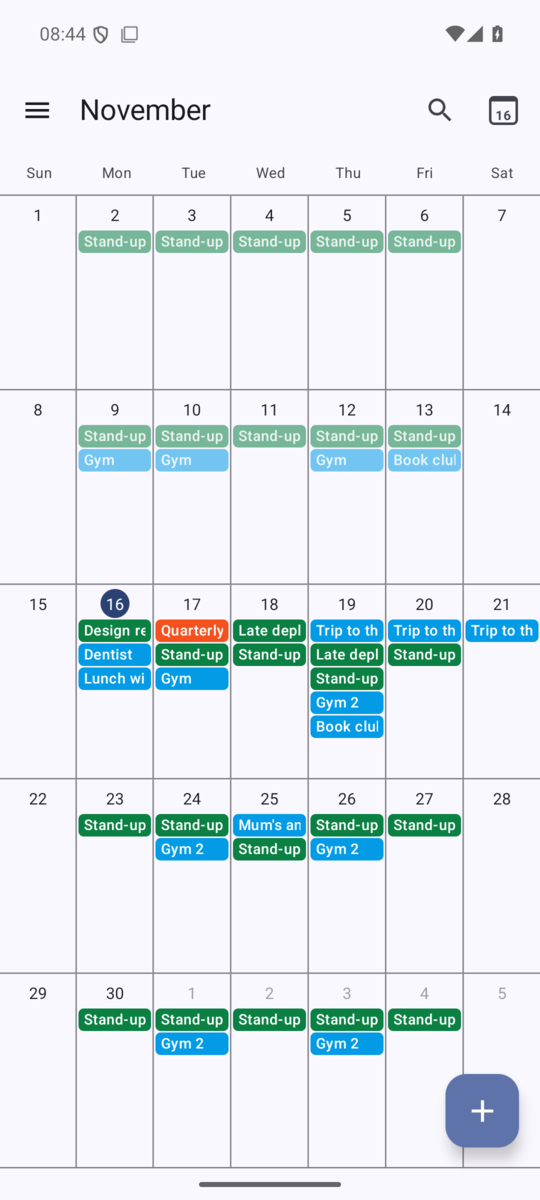
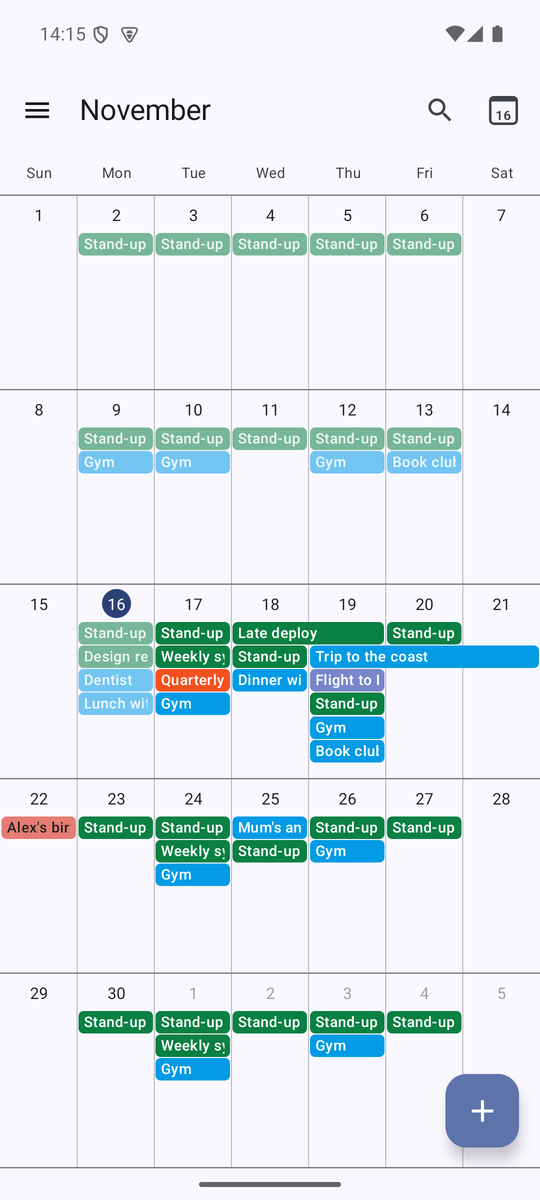
Docs: new features, colors, what's not included; fresh Schedule and Month screenshots

diff --git a/docs/features.md b/docs/features.md
@@ -13,19 +13,26 @@ How Almanac covers the Google Calendar app, screen by screen.
 | Search | Searches titles, places, descriptions and guests across ±2–3 years |
 | + button | Opens a new event at the next whole hour |
 | Pull to refresh | In Schedule; asks DAVx5 to sync now |
-| Month illustrations in Schedule | Seasonal colored banners |
-| Tasks, Goals, Working location, Google Meet | Not included (events only; no Google services) |
+| Month illustrations in Schedule | An original landscape per month, drawn in layers that drift as you scroll |
+| Pictures on dinners, birthdays, flights… | Picture cards for 44 kinds of event, chosen from words in the title |
+| Google Meet | A "Join with …" button for Meet, Zoom, Teams, Jitsi, Webex, Whereby, Nextcloud Talk links; creating Meet calls needs Google |
+| Tasks, Goals, Working location, Find a time | Not included (see below) |
 
 ## Views
 
 - **Schedule:** endless list of days with events, week ranges, month banners,
-  a red line at the current time, "Nothing planned" on an empty today.
+  a red line at the current time, "Nothing planned" on an empty today. Swipe
+  an event right to delete it (Undo for a few seconds); press and hold for
+  Open, Edit, Duplicate and Delete.
 - **Day / 3 days / Week:** 24-hour grid. All-day and 24-hour+ events sit on
   top, overlapping events share the width, and a red line marks now. Pinch to
   zoom, swipe for the next period, tap a free slot to add an event there, tap
-  a day header to open that day.
-- **Month:** full month grid, event chips with "+N" when a day is full, tap a
-  day to open it, swipe between months. Optional week numbers.
+  a day header to open that day. Press and hold an event and drag it to move
+  it (15-minute steps, across days, the grid scrolls at the edges); holding
+  without moving opens the event menu.
+- **Month:** full month grid; an event spanning several days is one bar,
+  "+N" when a day is full; tap a day to open it, swipe between months.
+  Optional week numbers.
 
 ## Event details
 
@@ -72,4 +79,20 @@ Settings), **Dismiss** and **Map**. Tapping it opens the event.
 |---|---|
 | General | Theme, start of week, week numbers, show declined events, dim past events, default event duration |
 | Notifications | On/off, default notification, default all-day notification, snooze length, Android's notification settings |
-| Calendars | Default calendar for new events; rename, recolor or delete phone-only calendars |
+| Calendars | Default calendar for new events; rename, recolor or delete phone-only calendars; recolor synced calendars (on this phone only) |
+
+## Colors
+
+Events can take any of Google's 11 colors. Phone-only calendars store them by
+name. DAVx5 offers the CSS3 named colors once its **Event colors** setting is
+on (account settings, CalDAV); Almanac stores the nearest one and draws it in
+Google's shade, so it syncs to the server as a standard `COLOR`. With the
+setting off, the editor says so instead of offering colors.
+
+## Not included
+
+- **Tasks:** DAVx5 syncs tasks to a separate tasks app (jtx Board, Tasks.org,
+  OpenTasks), and Davit serves events only for now.
+- **Goals and Working location:** Google-only features with no CalDAV
+  equivalent.
+- **Find a time:** needs other people's free/busy times from the server.

diff --git a/ARCHITECTURE.md b/ARCHITECTURE.md
@@ -16,11 +16,11 @@ calendar store, and Google's sync adapter does the syncing.
 
 | Package | Contents |
 |---|---|
-| `data` | `CalendarRepository` (all reads and writes), the model (`CalendarInfo`, `Instance`, `EventDetails`, `EventDraft`), `RRule` + `RecurrenceText`, `DayLayout`, `Ics` (import), `Birthdays`, `ContactsSearch`, `Prefs` |
-| `ui` | `AppViewModel` (navigation stack, settings, data access), `MainScreen` (top bar, drawer, FAB), the views (`ScheduleView`, `TimeGridView`, `MonthView`), `EventDetailScreen`, `EditEventScreen` + `Dialogs`, search/settings/import, `Fmt` (dates in the phone's language and 12/24-hour setting), theme |
+| `data` | `CalendarRepository` (all reads and writes), the model (`CalendarInfo`, `Instance`, `EventDetails`, `EventDraft`), `RRule` + `RecurrenceText`, `DayLayout` and `MonthLayout` (grid placement), `EventTheme` (picture themes from titles), `VideoCall` (call links), `Ics` (import), `Birthdays`, `ContactsSearch`, `Prefs` |
+| `ui` | `AppViewModel` (navigation stack, settings, data access), `MainScreen` (top bar, drawer, FAB), the views (`ScheduleView`, `TimeGridView`, `MonthView`), `EventDetailScreen`, `EditEventScreen` + `Dialogs`, `EventActions` (swipe, hold menu, delete/move questions), `Art` (month landscapes and event pictures, drawn in code), search/settings/import, `Fmt` (dates in the phone's language and 12/24-hour setting), theme |
 | `notify` | `Notifier` (reads due alerts, posts, snoozes), `ReminderReceiver`, `ReminderActionReceiver` |
 | `widget` | Glance schedule and month widgets |
-| `src/debug` | `DemoSeeder`: made-up test events, debug builds only |
+| `src/debug` | `DemoSeeder`: made-up test events; `ArtGallery`: all the artwork on one screen. Debug builds only |
 
 ## Data flow
 
@@ -36,6 +36,14 @@ calendar store, and Google's sync adapter does the syncing.
   requires for that account type.
 - **Guests** are diffed against the stored list, so unchanged guests keep their
   replies.
+- **Deletes wait for Undo.** A delete hides the occurrence at once and runs
+  five seconds later in the application's scope, so leaving the screen doesn't
+  cancel it; if the process dies first, nothing is deleted.
+- **Colors.** `Instance.color` and `EventDetails.color` are resolved in the
+  repository: an event color key that stands for one of Google's colors
+  (`Palette.choices`, nearest by RGB distance) is drawn in Google's shade; an
+  event without its own color takes its calendar's color, including one picked
+  in Almanac (`Settings.calendarColors`, never written to the store).
 
 ## Repeating events
 

diff --git a/AGENTS.md b/AGENTS.md
@@ -26,12 +26,19 @@ to their server.** Data safety matters more than features:
 ## Build, run, test
 
 ```sh
-./gradlew assembleDebug                 # app id app.crome1394.almanac.debug ("Almanac" debug)
-./gradlew testDebugUnitTest             # unit tests (recurrence, layout, .ics, birthdays, EXDATE)
+./gradlew assembleDebug                 # app id app.crome1394.almanac.debug, named "Almanac (debug)"
+./gradlew testDebugUnitTest             # unit tests (recurrence, layouts, .ics, birthdays, EXDATE, colors, themes, call links)
 adb -s emulator-5554 install -r app/build/outputs/apk/debug/app-debug.apk
 adb -s emulator-5554 shell am broadcast -n app.crome1394.almanac.debug/app.crome1394.almanac.DemoSeeder
 adb -s emulator-5554 shell am broadcast -n app.crome1394.almanac.debug/app.crome1394.almanac.DemoSeeder --ez soon true
+adb -s emulator-5554 shell am broadcast -n app.crome1394.almanac.debug/app.crome1394.almanac.DemoSeeder --ez css true
+adb -s emulator-5554 shell am start -n app.crome1394.almanac.debug/app.crome1394.almanac.ArtGallery [--ez dark true] [--ez events true]
 ```
+
+`--ez css true` makes a calendar under a made-up account that offers CSS3
+event colors the way DAVx5 does. The calendar store drops it when the
+emulator restarts (its account doesn't exist). If the emulator crashes in the
+GPU host, start it with `-gpu swiftshader_indirect`.
 
 - **Test on an emulator, never on the owner's phone.** The phone's calendar
   store is their real, synced data. `DemoSeeder` (debug builds only) creates
@@ -46,7 +53,8 @@ adb -s emulator-5554 shell am broadcast -n app.crome1394.almanac.debug/app.crome
 - Compose test tags double as view ids (`testTagsAsResourceId`), so
   `uiautomator dump` finds controls: `menu`, `view-schedule|day|three_day|week|month`,
   `new-event`, `today`, `search`, `edit`, `more`, `save`, `cancel`,
-  `title-field`, `start-time`, `repeat`, `cell-YYYY-MM-DD`, `event`.
+  `title-field`, `start-time`, `repeat`, `cell-YYYY-MM-DD`, `event`,
+  `join`, `drag-ghost`.
   Dialogs and menus are separate windows: find them by their text.
 - Finish with unit tests passing, a clean build, and the change checked on an
   emulator (screenshots for anything visual, in light and dark).

diff --git a/README.md b/README.md
@@ -17,13 +17,14 @@ leaves the phone except through your own sync app.
 
 | | |
 |---|---|
-| **Views** | Schedule, Day, 3 days, Week and Month; swipe between periods, pinch to zoom the day grid, tap a free slot to add an event |
+| **Views** | Schedule (illustrated months, picture cards for dinners, birthdays, flights…), Day, 3 days, Week and Month; swipe between periods, pinch to zoom, tap a free slot to add an event |
 | **Events** | Title, all-day, start/end, time zone, repeat (presets and custom rules), guests with contact suggestions, location, notifications, color, description, busy/free, visibility |
+| **Quick edits** | Drag events to a new time or day; swipe right to delete (with Undo); press and hold for a menu |
 | **Repeating events** | Change or delete *this event*, *this and following* or *all events* |
-| **Invitations** | Guest list with replies; answer Yes / No / Maybe; email guests |
+| **Invitations** | Guest list with replies; answer Yes / No / Maybe; email guests; Join button for video calls |
 | **Reminders** | Notifications with Snooze, Dismiss and Map; default reminders for timed and all-day events |
 | **Find** | Search across all calendars; mini month under the title; Today button |
-| **Calendars** | Show/hide per calendar, phone-only calendars, birthdays from contacts |
+| **Calendars** | Show/hide and recolor per calendar, Google's 11 event colors, phone-only calendars, birthdays from contacts |
 | **Other apps** | Opens "Add to calendar" requests, event links and `.ics` files |
 | **Home screen** | Schedule and month widgets |
 | **Look** | Material 3 in Google Calendar's style, light/dark, Material You colors |

diff --git a/CHANGELOG.md b/CHANGELOG.md
@@ -18,3 +18,16 @@ First version.
 - Schedule and month home-screen widgets.
 - Settings: theme, start of week, week numbers, declined events, dimming past
   events, default duration and notifications, snooze length, default calendar.
+- Schedule: an illustrated landscape for each month whose layers drift as you
+  scroll; the month name in the top bar rolls when the month changes.
+- Picture cards in Schedule for dinners, birthdays, flights, holidays and 40
+  other kinds of event, chosen from words in the title.
+- Swipe an event right in Schedule to delete it, with Undo; press and hold any
+  event for Open, Edit, Duplicate and Delete.
+- Drag events to another time or day in the Day, 3-day and Week views.
+- Month view draws an event spanning several days as one bar.
+- Google's 11 event colors on every calendar: matched to DAVx5's color names
+  when its "Event colors" setting is on, with a hint when it is off.
+- Recolor synced calendars (kept in Almanac on this phone).
+- "Join with …" button for Meet, Zoom, Teams, Jitsi and other call links.
+- The `.ics` import preview shows how each event repeats.
